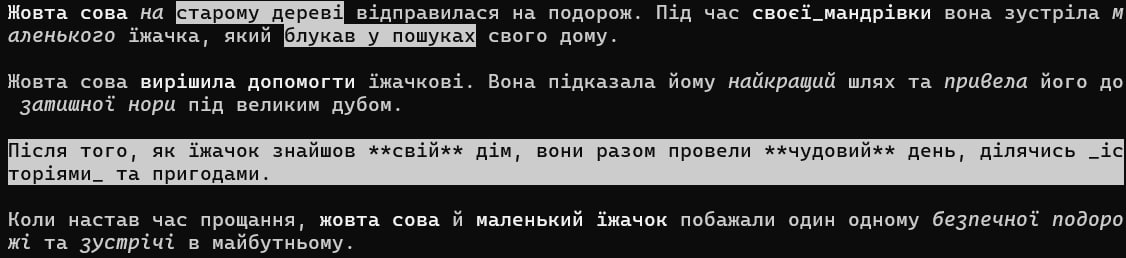
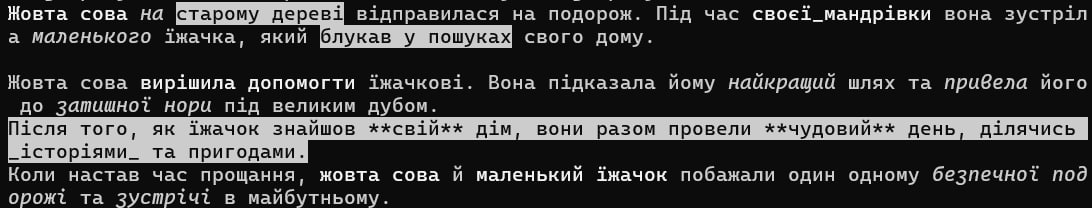
small changes in the way to ANSI conversion

diff --git a/test/convertMdToAnsi.test.js b/test/convertMdToAnsi.test.js
@@ -3,7 +3,7 @@ const convertMarkdownToAnsi = require('../src/convertMdToAnsi');
 describe('convertMarkdownToAnsi', () => {
   test('valid md to ANSI', () => {
     const markdown = '**Жовта сова** _на_ `старому дереві` відправилася на подорож\n```\nПід час **своєї_мандрівки**\n```\nвона зустріла _маленького_ їжачка.';
-    const expected = '\x1b[1mЖовта сова\x1b[0m \x1b[3mна\x1b[0m \x1b[7mстарому дереві\x1b[0m відправилася на подорож\n\x1b[7m\nПід час **своєї_мандрівки**\n\x1b[0m\nвона зустріла \x1b[3mмаленького\x1b[0m їжачка.';
+    const expected = '\x1b[1mЖовта сова\x1b[0m \x1b[3mна\x1b[0m \x1b[7mстарому дереві\x1b[0m відправилася на подорож\x1b[7m\nПід час **своєї_мандрівки**\n\x1b[0mвона зустріла \x1b[3mмаленького\x1b[0m їжачка.';
     expect(convertMarkdownToAnsi(markdown)).toEqual(expected);
   });
   test('invalid md', () => {

diff --git a/src/constants.js b/src/constants.js
@@ -3,7 +3,7 @@ const REGEX = {
   italic: /(?<=^|\s)_(\S((?:(?!\*\*\s).)*?\S)?)_(?=\s|$)(?![^<pre>]*<\/pre>)/g,
   monospaced: /(?<=^|\s)`(\S((?:(?!\*\*\s).)*?\S)?)`(?=\s|$)(?![^<pre>]*<\/pre>)/g,
   preformatted: /(?<=^|\n)```([\s\S]+?)```(?=\n|$)/g,
-  preformattedInHtml: /(?<=^|\n)<pre>([\s\S]+?)<\/pre>(?=\n|$)/g,
+  preformattedInHtml: /\n<pre>([\s\S]+?)<\/pre>\n/g,
 };
 
 module.exports = REGEX;
